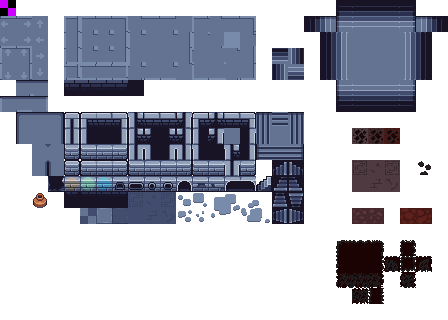
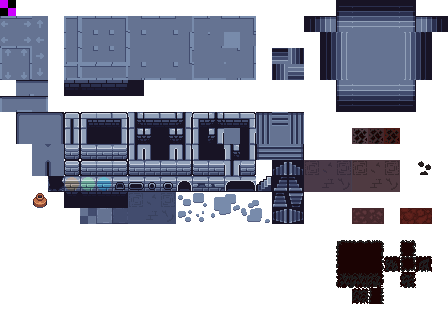
Registered both dry/wet variants for the outer tiles

Changed region(s): [[0.6562, 0.5, 0.8125, 0.625]]

diff --git a/src/_world.cpp b/src/_world.cpp
@@ -427,30 +427,55 @@ void _world::initTiles() {
     world_tiles[TILE_FLOOR_BOSS_BLANK_2].hasCollision = false;
     world_tiles[TILE_FLOOR_BOSS_BLANK_2].name = "blank_floor_2_boss";
     
-    // Outer Floor //
-    setTileInAtlas(22,11, world_tiles[TILE_FLOOR_OUTER_BLANK_1]);      
-    world_tiles[TILE_FLOOR_OUTER_BLANK_1].hasCollision = false;
-    world_tiles[TILE_FLOOR_OUTER_BLANK_1].name = "blank_floor";
+    // Outer Floor Dry //
+    setTileInAtlas(22,11, world_tiles[TILE_FLOOR_OUTER_BLANK_1_DRY]);      
+    world_tiles[TILE_FLOOR_OUTER_BLANK_1_DRY].hasCollision = false;
+    world_tiles[TILE_FLOOR_OUTER_BLANK_1_DRY].name = "blank_floor_dry";
 
-    setTileInAtlas(23,10, world_tiles[TILE_FLOOR_OUTER_CRACKED_1]);       
-    world_tiles[TILE_FLOOR_OUTER_CRACKED_1].hasCollision = false;
-    world_tiles[TILE_FLOOR_OUTER_CRACKED_1].name = "slightly_cracked_floor";
+    setTileInAtlas(23,10, world_tiles[TILE_FLOOR_OUTER_CRACKED_1_DRY]);       
+    world_tiles[TILE_FLOOR_OUTER_CRACKED_1_DRY].hasCollision = false;
+    world_tiles[TILE_FLOOR_OUTER_CRACKED_1_DRY].name = "slightly_cracked_floor_dry";
 
-    setTileInAtlas(24,11, world_tiles[TILE_FLOOR_OUTER_CRACKED_2]);      
-    world_tiles[TILE_FLOOR_OUTER_CRACKED_2].hasCollision = false;
-    world_tiles[TILE_FLOOR_OUTER_CRACKED_2].name = "medium_cracked_floor";
+    setTileInAtlas(24,11, world_tiles[TILE_FLOOR_OUTER_CRACKED_2_DRY]);      
+    world_tiles[TILE_FLOOR_OUTER_CRACKED_2_DRY].hasCollision = false;
+    world_tiles[TILE_FLOOR_OUTER_CRACKED_2_DRY].name = "medium_cracked_floor_dry";
 
-    setTileInAtlas(22,10, world_tiles[TILE_FLOOR_OUTER_SQUARE_1]);       
-    world_tiles[TILE_FLOOR_OUTER_SQUARE_1].hasCollision = false;
-    world_tiles[TILE_FLOOR_OUTER_SQUARE_1].name = "square_outlined_floor_1";
+    setTileInAtlas(22,10, world_tiles[TILE_FLOOR_OUTER_SQUARE_1_DRY]);       
+    world_tiles[TILE_FLOOR_OUTER_SQUARE_1_DRY].hasCollision = false;
+    world_tiles[TILE_FLOOR_OUTER_SQUARE_1_DRY].name = "square_outlined_floor_1_dry";
 
-    setTileInAtlas(24,10, world_tiles[TILE_FLOOR_OUTER_SQUARE_2]);       
-    world_tiles[TILE_FLOOR_OUTER_SQUARE_2].hasCollision = false;
-    world_tiles[TILE_FLOOR_OUTER_SQUARE_2].name = "square_outlined_floor_2";
+    setTileInAtlas(24,10, world_tiles[TILE_FLOOR_OUTER_SQUARE_2_DRY]);       
+    world_tiles[TILE_FLOOR_OUTER_SQUARE_2_DRY].hasCollision = false;
+    world_tiles[TILE_FLOOR_OUTER_SQUARE_2_DRY].name = "square_outlined_floor_2_dry";
 
-    setTileInAtlas(23,11, world_tiles[TILE_FLOOR_OUTER_BLANK_2]);       
-    world_tiles[TILE_FLOOR_OUTER_BLANK_2].hasCollision = false;
-    world_tiles[TILE_FLOOR_OUTER_BLANK_2].name = "blank_floor_2";
+    setTileInAtlas(23,11, world_tiles[TILE_FLOOR_OUTER_BLANK_2_DRY]);       
+    world_tiles[TILE_FLOOR_OUTER_BLANK_2_DRY].hasCollision = false;
+    world_tiles[TILE_FLOOR_OUTER_BLANK_2_DRY].name = "blank_floor_2_dry";
+
+    // Outer Floor Wet //
+    setTileInAtlas(19,11, world_tiles[TILE_FLOOR_OUTER_BLANK_1_WET]);      
+    world_tiles[TILE_FLOOR_OUTER_BLANK_1_WET].hasCollision = false;
+    world_tiles[TILE_FLOOR_OUTER_BLANK_1_WET].name = "blank_floor_wet";
+
+    setTileInAtlas(20,10, world_tiles[TILE_FLOOR_OUTER_CRACKED_1_WET]);       
+    world_tiles[TILE_FLOOR_OUTER_CRACKED_1_WET].hasCollision = false;
+    world_tiles[TILE_FLOOR_OUTER_CRACKED_1_WET].name = "slightly_cracked_floor_wet";
+
+    setTileInAtlas(21,11, world_tiles[TILE_FLOOR_OUTER_CRACKED_2_WET]);      
+    world_tiles[TILE_FLOOR_OUTER_CRACKED_2_WET].hasCollision = false;
+    world_tiles[TILE_FLOOR_OUTER_CRACKED_2_WET].name = "medium_cracked_floor_wet";
+
+    setTileInAtlas(19,10, world_tiles[TILE_FLOOR_OUTER_SQUARE_1_WET]);       
+    world_tiles[TILE_FLOOR_OUTER_SQUARE_1_WET].hasCollision = false;
+    world_tiles[TILE_FLOOR_OUTER_SQUARE_1_WET].name = "square_outlined_floor_1_wet";
+
+    setTileInAtlas(21,10, world_tiles[TILE_FLOOR_OUTER_SQUARE_2_WET]);       
+    world_tiles[TILE_FLOOR_OUTER_SQUARE_2_WET].hasCollision = false;
+    world_tiles[TILE_FLOOR_OUTER_SQUARE_2_WET].name = "square_outlined_floor_2_wet";
+
+    setTileInAtlas(20,11, world_tiles[TILE_FLOOR_OUTER_BLANK_2_WET]);       
+    world_tiles[TILE_FLOOR_OUTER_BLANK_2_WET].hasCollision = false;
+    world_tiles[TILE_FLOOR_OUTER_BLANK_2_WET].name = "blank_floor_2_wet";
 
     // Middle Floor //
     setTileInAtlas(22,13, world_tiles[TILE_FLOOR_OUTER_DEFAULT_1]);       
@@ -652,7 +677,8 @@ void _world::postProcessWorld() {
     vector<uint8_t> world_noise_primary_copy(world_noise[LAYER_PRIMARY]);
 
     uniform_int_distribution<uint8_t> boss_dist(TILE_FLOOR_BOSS_BLANK_1, TILE_FLOOR_BOSS_BLANK_2); 
-    uniform_int_distribution<uint8_t> outer_dist(TILE_FLOOR_OUTER_BLANK_1, TILE_FLOOR_OUTER_BLANK_2); 
+    uniform_int_distribution<uint8_t> outer_dist_dry(TILE_FLOOR_OUTER_BLANK_1_DRY, TILE_FLOOR_OUTER_BLANK_2_DRY); 
+    uniform_int_distribution<uint8_t> outer_dist_wet(TILE_FLOOR_OUTER_BLANK_1_WET, TILE_FLOOR_OUTER_BLANK_2_WET); 
     uniform_int_distribution<uint8_t> middle_dist(TILE_FLOOR_OUTER_DEFAULT_1, TILE_FLOOR_OUTER_DEFAULT_2); 
     uniform_int_distribution<uint8_t> inner_dist(TILE_FLOOR_INNER_DEFAULT_1, TILE_FLOOR_INNER_DEFAULT_2); 
     uniform_real_distribution<float> dist(0.0f,1.0f);
@@ -721,10 +747,10 @@ void _world::postProcessWorld() {
                     if (dist(rng) > transitionProgress) {
                         world_noise[LAYER_FLOOR][i] = middle_dist(rng); // Blend toward middle tiles
                     } else {
-                        world_noise[LAYER_FLOOR][i] = outer_dist(rng);
+                        world_noise[LAYER_FLOOR][i] = outer_dist_dry(rng);
                     }
                 } else {
-                    world_noise[LAYER_FLOOR][i] = outer_dist(rng);
+                    world_noise[LAYER_FLOOR][i] = outer_dist_dry(rng);
                 }
                 break;
         }

diff --git a/include/_world.h b/include/_world.h
@@ -115,13 +115,21 @@ enum TileId : uint8_t {
     TILE_FLOOR_BOSS_SQUARE_2,
     TILE_FLOOR_BOSS_BLANK_2,
 
-    // Floor Outer //
-    TILE_FLOOR_OUTER_BLANK_1,
-    TILE_FLOOR_OUTER_CRACKED_1,
-    TILE_FLOOR_OUTER_CRACKED_2,
-    TILE_FLOOR_OUTER_SQUARE_1,
-    TILE_FLOOR_OUTER_SQUARE_2,
-    TILE_FLOOR_OUTER_BLANK_2,
+    // Floor Outer Dry //
+    TILE_FLOOR_OUTER_BLANK_1_DRY,
+    TILE_FLOOR_OUTER_CRACKED_1_DRY,
+    TILE_FLOOR_OUTER_CRACKED_2_DRY,
+    TILE_FLOOR_OUTER_SQUARE_1_DRY,
+    TILE_FLOOR_OUTER_SQUARE_2_DRY,
+    TILE_FLOOR_OUTER_BLANK_2_DRY,
+
+    // Floor Outer Wet //
+    TILE_FLOOR_OUTER_BLANK_1_WET,
+    TILE_FLOOR_OUTER_CRACKED_1_WET,
+    TILE_FLOOR_OUTER_CRACKED_2_WET,
+    TILE_FLOOR_OUTER_SQUARE_1_WET,
+    TILE_FLOOR_OUTER_SQUARE_2_WET,
+    TILE_FLOOR_OUTER_BLANK_2_WET,
 
     // Floor Middle //
     TILE_FLOOR_OUTER_DEFAULT_1,
@@ -512,8 +520,6 @@ class _world
         // -- World Generation -- //
         vector<uint8_t> world_noise[NUM_LAYERS];    // Tile ID distribution of layers
         vector<uint8_t> wet_noise;                  // Noise distribution to create wet/dry tiles
-
-        
 
         // Converts an index into a coordinate position starting at TOP LEFT for (0,0) using grid
         Vec2i convertIndexToPos(int index, int width, int height);
